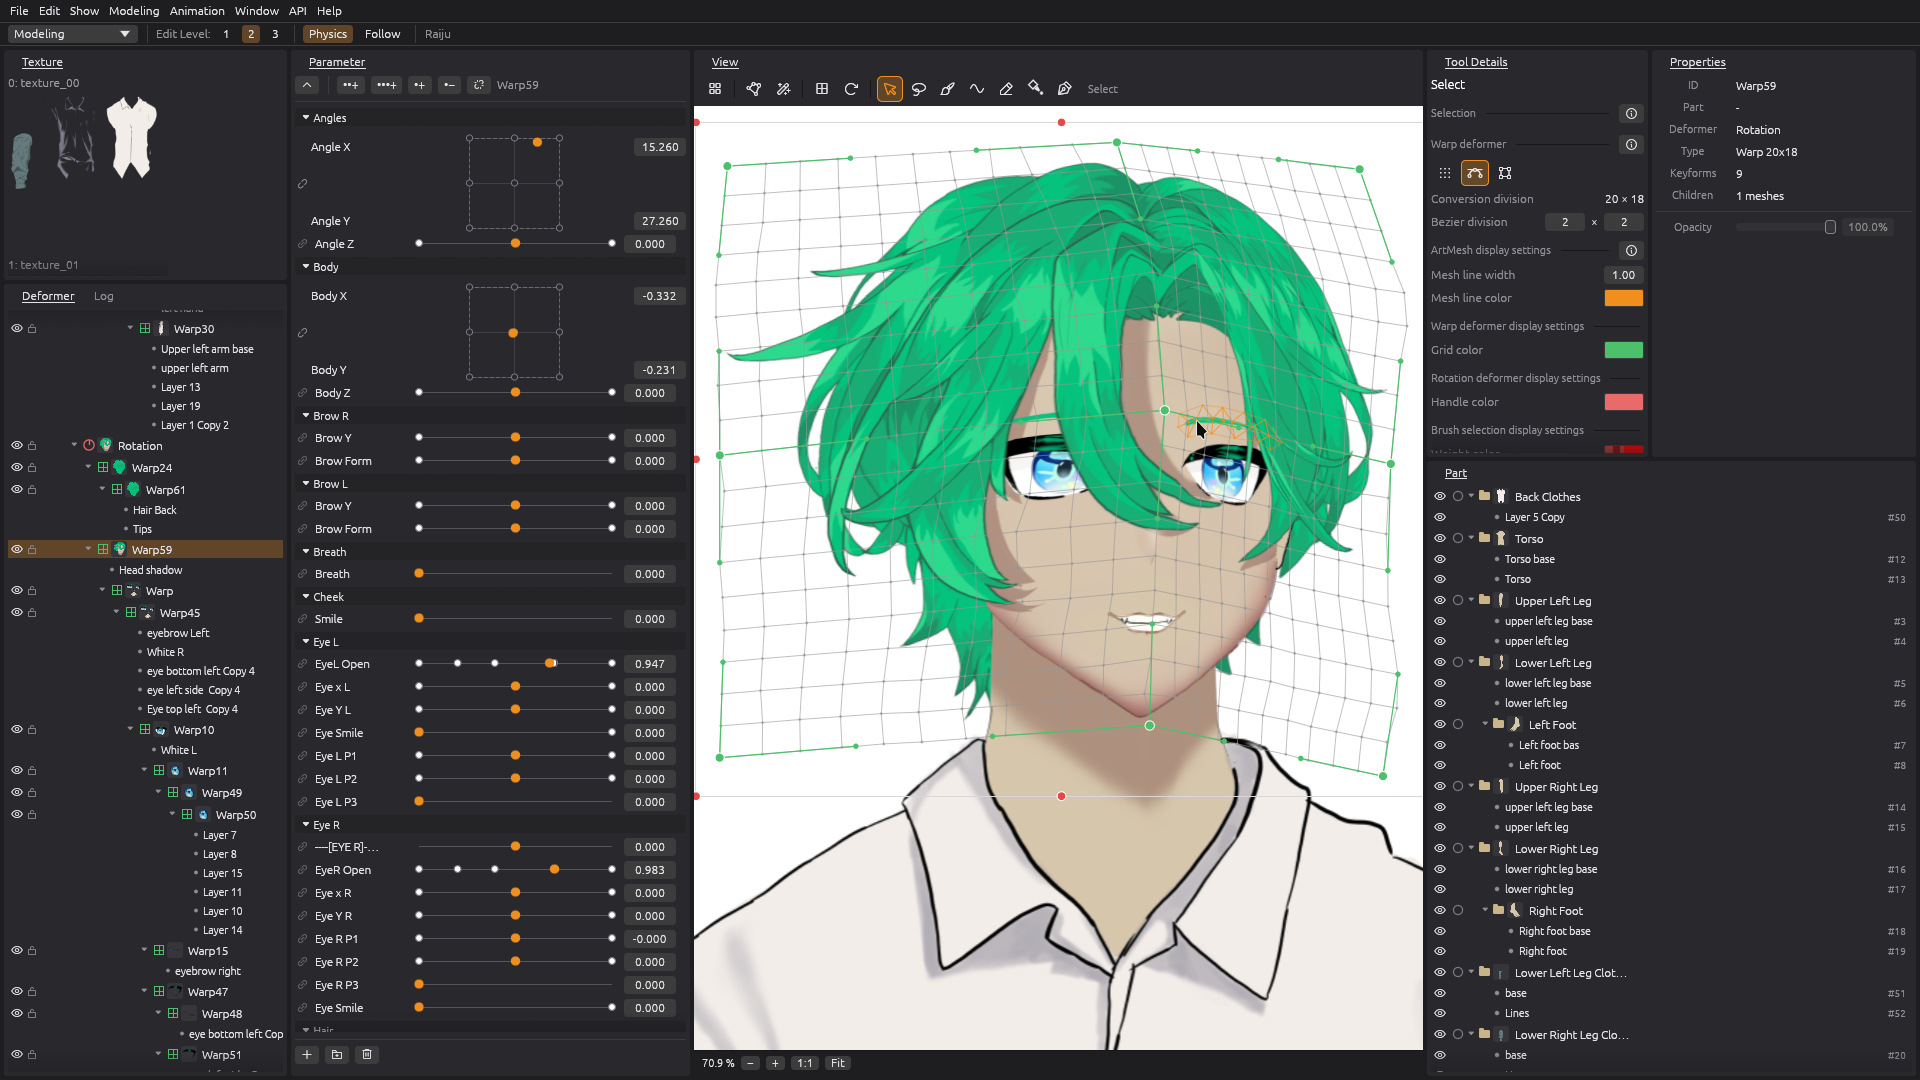
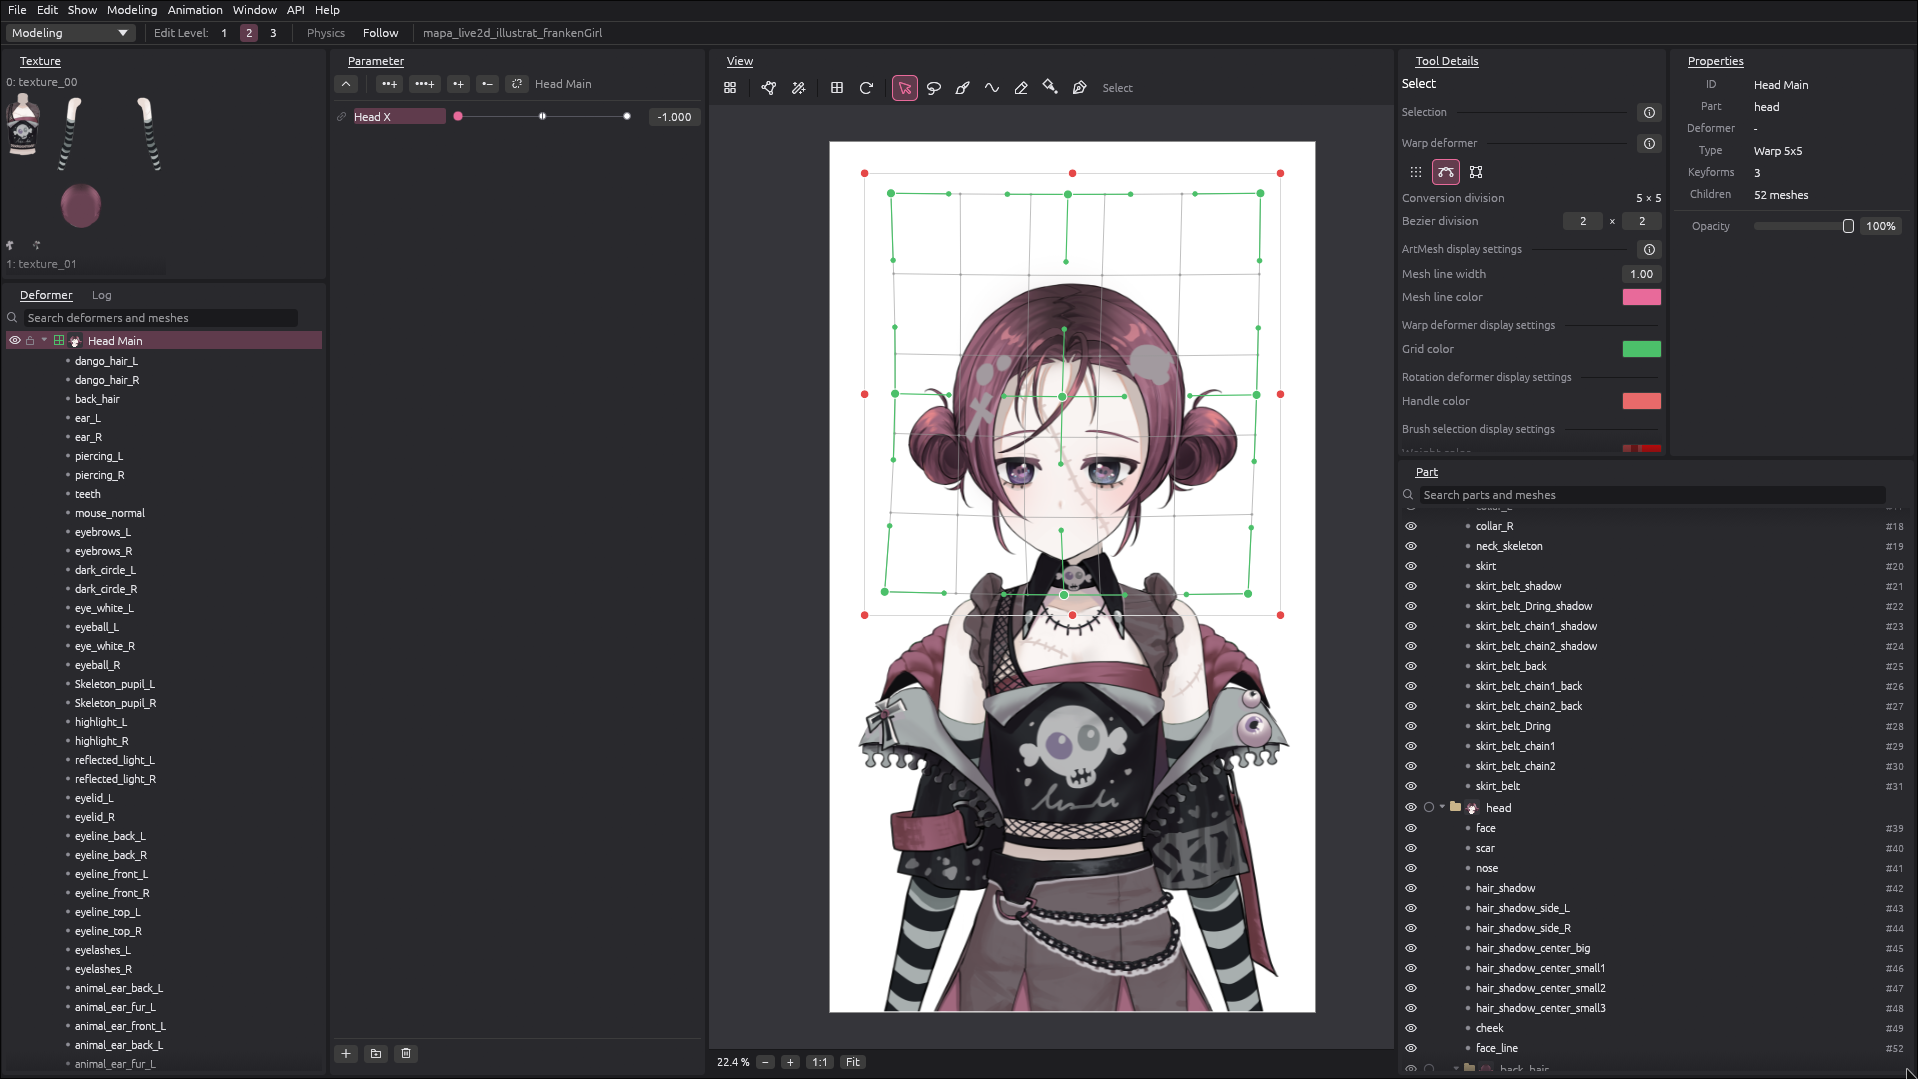
docs: new rigging screenshot

diff --git a/README.md b/README.md
@@ -118,7 +118,7 @@ integrated graphics** opens in 1.6 seconds, uses 486 MB of memory and about
 ### Rigging
 
 <p align="center">
-  <img src="docs/media/rigging.png" alt="A warp deformer bending the head as the Angle X and Angle Y parameters move" width="860">
+  <img src="docs/media/rigging.png" alt="A warp deformer on the head with its Bezier handles, keyed to the Head X parameter" width="860">
 </p>
 
 - **Parameters and keyforms**, with Cubism's palette tools: four-corner forms,
